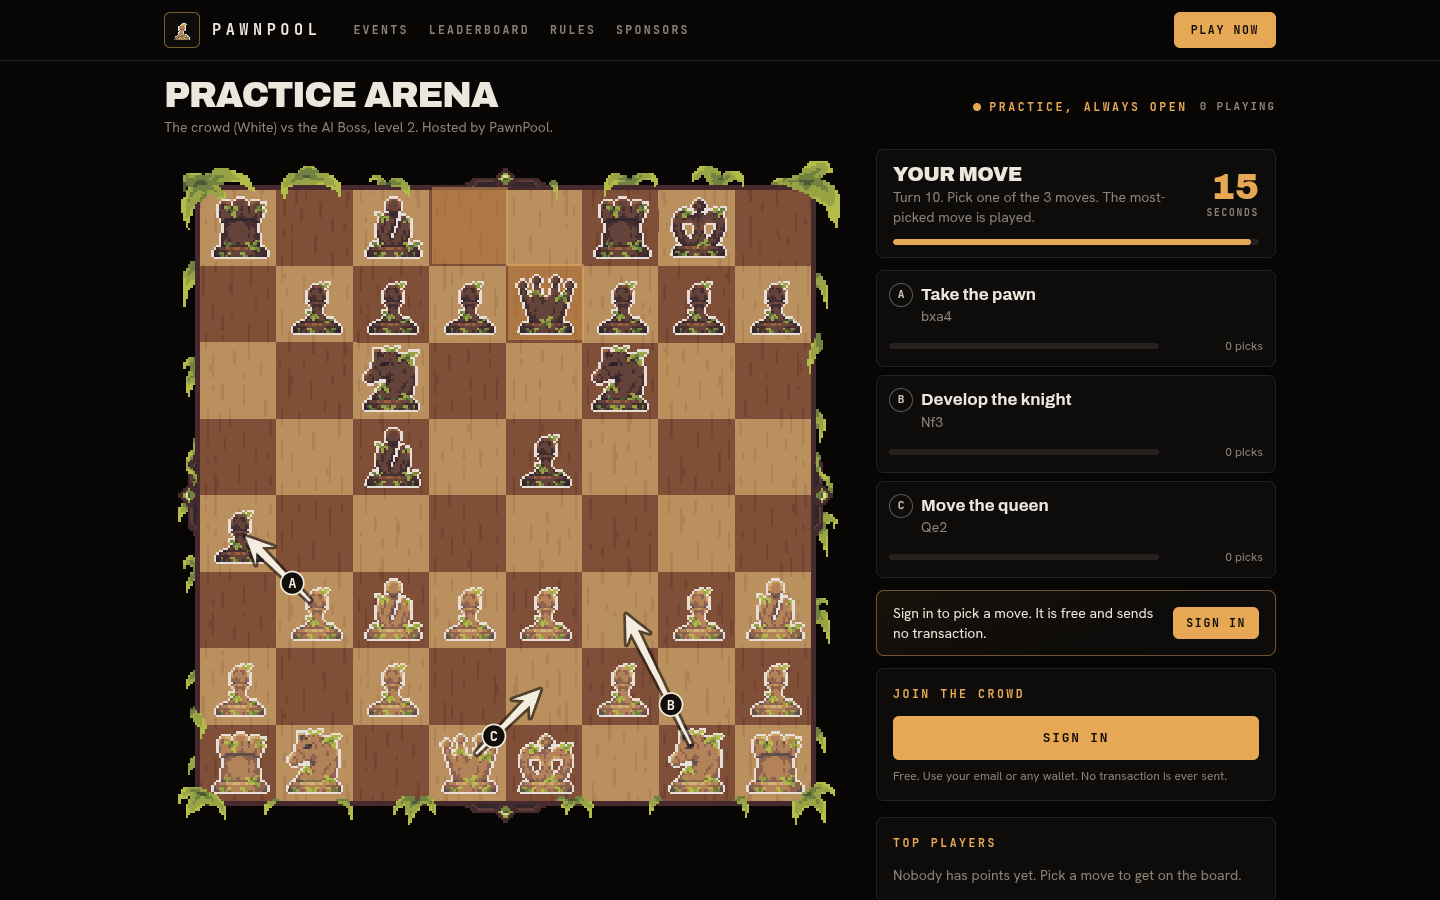
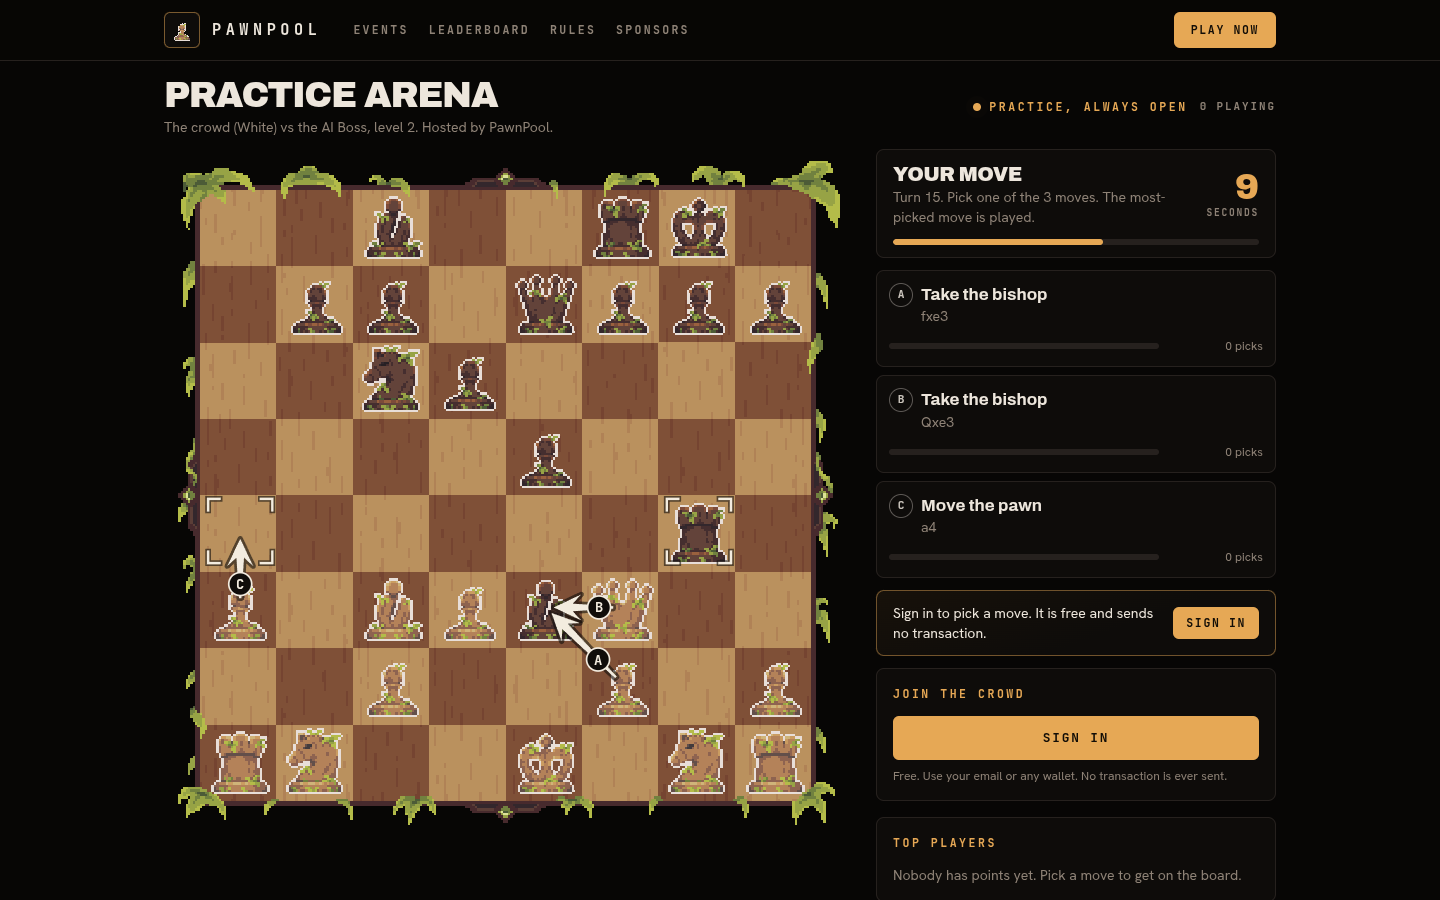
style(web): mark the last move with corner ticks, not a tinted square
The gold tint made the two last-move squares look like a different board
color. Fine corner marks keep the move visible and leave the wood untouched.

diff --git a/apps/web/src/components/arena/Board.tsx b/apps/web/src/components/arena/Board.tsx
@@ -1,4 +1,4 @@
-import { arrowGeometry, parseFen, squareCoords } from "./geometry";
+import { arrowGeometry, cornerTicks, parseFen, squareCoords } from "./geometry";
 import "./chess-board.css";
 import "./chess-pieces.css";
 
@@ -37,13 +37,6 @@ export function Board({
       {/* Board.png has its dark corner at a8; chess wants it at a1, so mirror the picture only. */}
       <div className="chess-board-art pixel absolute inset-0 -scale-x-100 bg-contain bg-center bg-no-repeat" />
       <div className="absolute" style={{ inset: `${INSET}%` }}>
-        {[from, to].map(
-          (sq, i) =>
-            sq && (
-              <div key={`hl-${i}-${sq}`} className="absolute h-[12.5%] w-[12.5%] bg-gold/45" style={cell(sq)} />
-            ),
-        )}
-
         {pieces.map((p) => {
           const slide =
             animate && lastMove && p.sq === to
@@ -63,6 +56,16 @@ export function Board({
         })}
 
         <svg viewBox="0 0 8 8" className="absolute inset-0 z-20 h-full w-full" aria-hidden="true">
+          {[from, to].map((sq) => {
+            if (!sq) return null;
+            const d = cornerTicks(sq);
+            return (
+              <g key={sq} data-last-move="">
+                <path d={d} fill="none" stroke={INK} strokeOpacity={0.6} strokeWidth={0.075} strokeLinecap="square" />
+                <path d={d} fill="none" stroke={IVORY} strokeWidth={0.032} strokeLinecap="square" />
+              </g>
+            );
+          })}
           {arrows.map((a) => {
             const g = arrowGeometry(a.uci);
             const tone = a.state === "picked" ? GOLD : IVORY;

diff --git a/apps/web/src/components/arena/geometry.ts b/apps/web/src/components/arena/geometry.ts
@@ -39,6 +39,25 @@ export function parseFen(fen: string): BoardPiece[] {
   return out;
 }
 
+/** SVG path of four small corner marks inside a square, used to show the last move without tinting the board. */
+export function cornerTicks(sq: string): string {
+  const { x, y } = squareCenter(sq);
+  const near = 0.42;
+  const tick = 0.15;
+  return [
+    [-1, -1],
+    [1, -1],
+    [1, 1],
+    [-1, 1],
+  ]
+    .map(([sx, sy]) => {
+      const cx = Number((x + sx! * near).toFixed(3));
+      const cy = Number((y + sy! * near).toFixed(3));
+      return `M${cx - sx! * tick} ${cy}L${cx} ${cy}L${cx} ${cy - sy! * tick}`;
+    })
+    .join("");
+}
+
 /** Slim arrow from the origin square to the destination: a tapered blade with a swept-back head, as one polygon. */
 export function arrowGeometry(uci: string): {
   blade: string;

diff --git a/apps/web/src/components/arena/Board.test.tsx b/apps/web/src/components/arena/Board.test.tsx
@@ -27,6 +27,14 @@ describe("candidate arrows", () => {
   });
 });
 
+describe("last move", () => {
+  it("marks both squares with corner ticks and leaves the board color alone", () => {
+    const html = renderToStaticMarkup(<Board fen={START} lastMove={{ uci: "e2e4" }} animate={false} />);
+    expect(html).not.toContain("bg-gold");
+    expect(html.match(/data-last-move/g)).toHaveLength(2);
+  });
+});
+
 describe("board art never depends on a separate request", () => {
   it("renders the board and pieces without fetching an image", () => {
     const html = renderToStaticMarkup(<Board fen={START} lastMove={null} animate={false} />);
